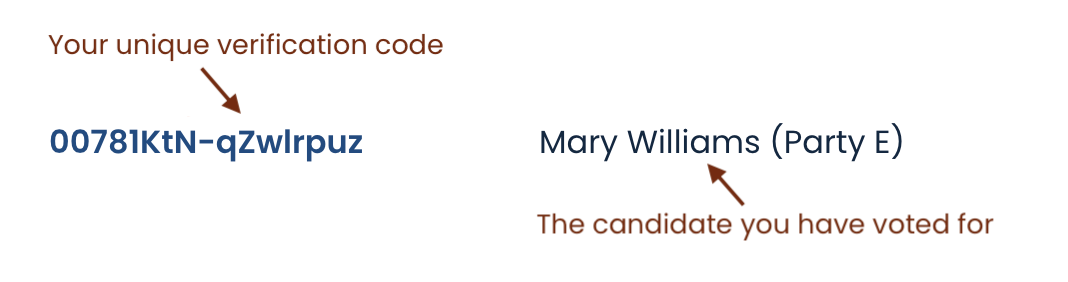
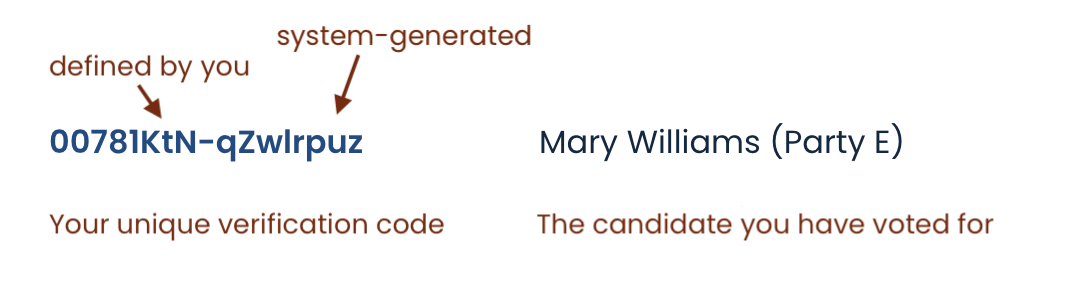
update verification code page (text and picture)

diff --git a/src/Voting-System/VerificationCode/VerificationCode.js b/src/Voting-System/VerificationCode/VerificationCode.js
@@ -13,6 +13,7 @@ import {
   Flex,
   Grid,
   Spinner,
+  Image
 } from "@chakra-ui/react";
 import { downloadFile } from "../../utils";
 import { Field, Form, Formik } from "formik";
@@ -20,6 +21,8 @@ import "./VerificationCode.css";
 import { useNavigate } from "react-router-dom";
 import getCurrentUser, { saveVerificationCode } from "../../API/Voter";
 import Navbar from "../Navbar/Navbar";
+import VerificationCodeExample from "../../assets/VerificationCode_example.png";
+
 
 export default function VerificationCode() {
   const navigate = useNavigate();
@@ -129,10 +132,31 @@ export default function VerificationCode() {
       <div className="outer-page-container">
         <div className="inner-page-container-wide">
           <h1 className="blue-text">Welcome</h1>
-          <Text>
-            In order to vote in the General Election, please provide a code in
-            the input field below. The code should contain of:
+          <Text>Welcome to the General Election 2023!</Text>
+          <Text className="text-margin-top">
+            In order to ensure the correctness of the election result in this
+            online election, it is important that you verify your vote later in
+            the process. For this purpose, you need to enter a code of your own
+            choice in the input field below. This code will be the first part of
+            your unique verification code. The second part will be randomly
+            generated.
           </Text>
+          <Text className="text-margin-top">
+            In the next step, you will receive your complete verification code
+            which will be linked to your vote. You will find both on the
+            official results page as soon as the results are published. It will
+            be looking like this:
+          </Text>
+
+          <Image
+            src={VerificationCodeExample}
+            mt={"2rem"}
+            border={"solid 1px var(--light_grey)"}
+          />
+          <figcaption className="figcaption-verification-example">
+            Example of verification code and vote
+          </figcaption>
+          <Text className="text-margin-top">Your self-chosen code should include:</Text>
           <UnorderedList marginTop={"0.7rem"} fontWeight="600">
             <ListItem>8-20 characters</ListItem>
             <ListItem>At least one letter</ListItem>
@@ -177,20 +201,14 @@ export default function VerificationCode() {
                   type="submit"
                   className="blue-btn"
                   disabled={
-                    voter.attributes.VerificationCode !== "" ? true : false
+                    isSubmitting
                   }
+                  visibility={voter.attributes.VerificationCode === "" ? "visible" : "hidden"}
                 >
                   {" "}
                   {isSubmitting && <Spinner size="sm" mr={"1rem"} />}
                   Next
                 </Button>
-                <Text
-                  id="submission-error"
-                  className="error-text-db-submission"
-                  mt={"2rem"}
-                >
-                  Something went wrong, please try again later.{" "}
-                </Text>
               </Form>
             )}
           </Formik>
@@ -201,7 +219,7 @@ export default function VerificationCode() {
           >
             <Text>
               Below is your unique verification code, which you will need to use
-              later to check if your vote has been saved correctly. You should
+              later to check if your vote has been counted correctly. You should
               be able to recognize the first part of the code from above.
             </Text>
 

diff --git a/src/Voting-System/VerificationCode/VerificationCode.css b/src/Voting-System/VerificationCode/VerificationCode.css
@@ -9,5 +9,10 @@
 
 .generated-verification-code-container {
   flex-direction: column;
-  margin-top: 3rem;
+}
+.figcaption-verification-example{
+  text-align: center;
+  font-size: 0.9rem;
+  line-height: 2;
+  color: grey;
 }
